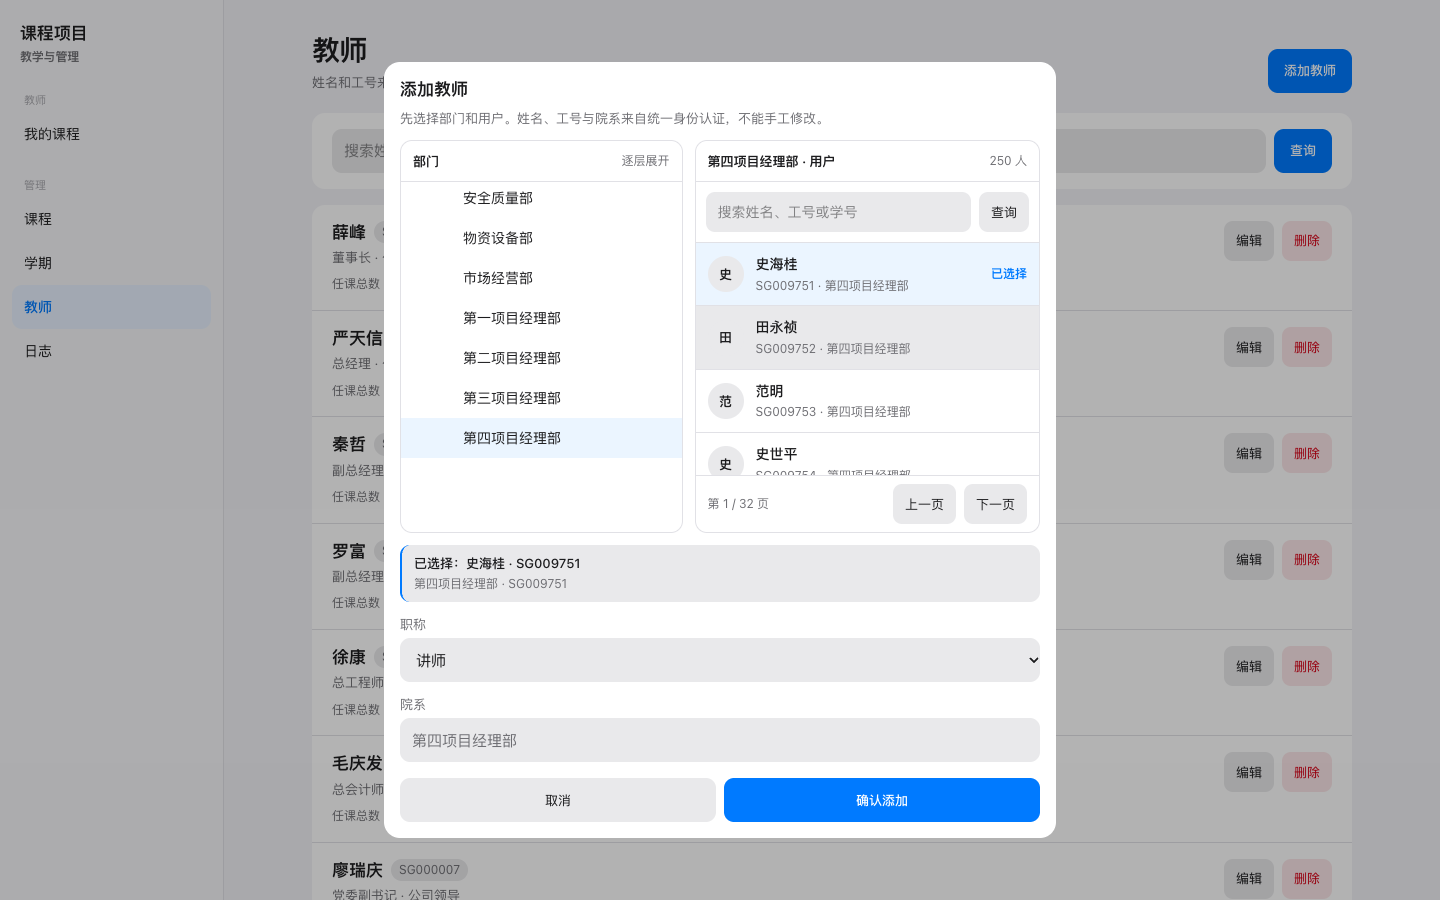
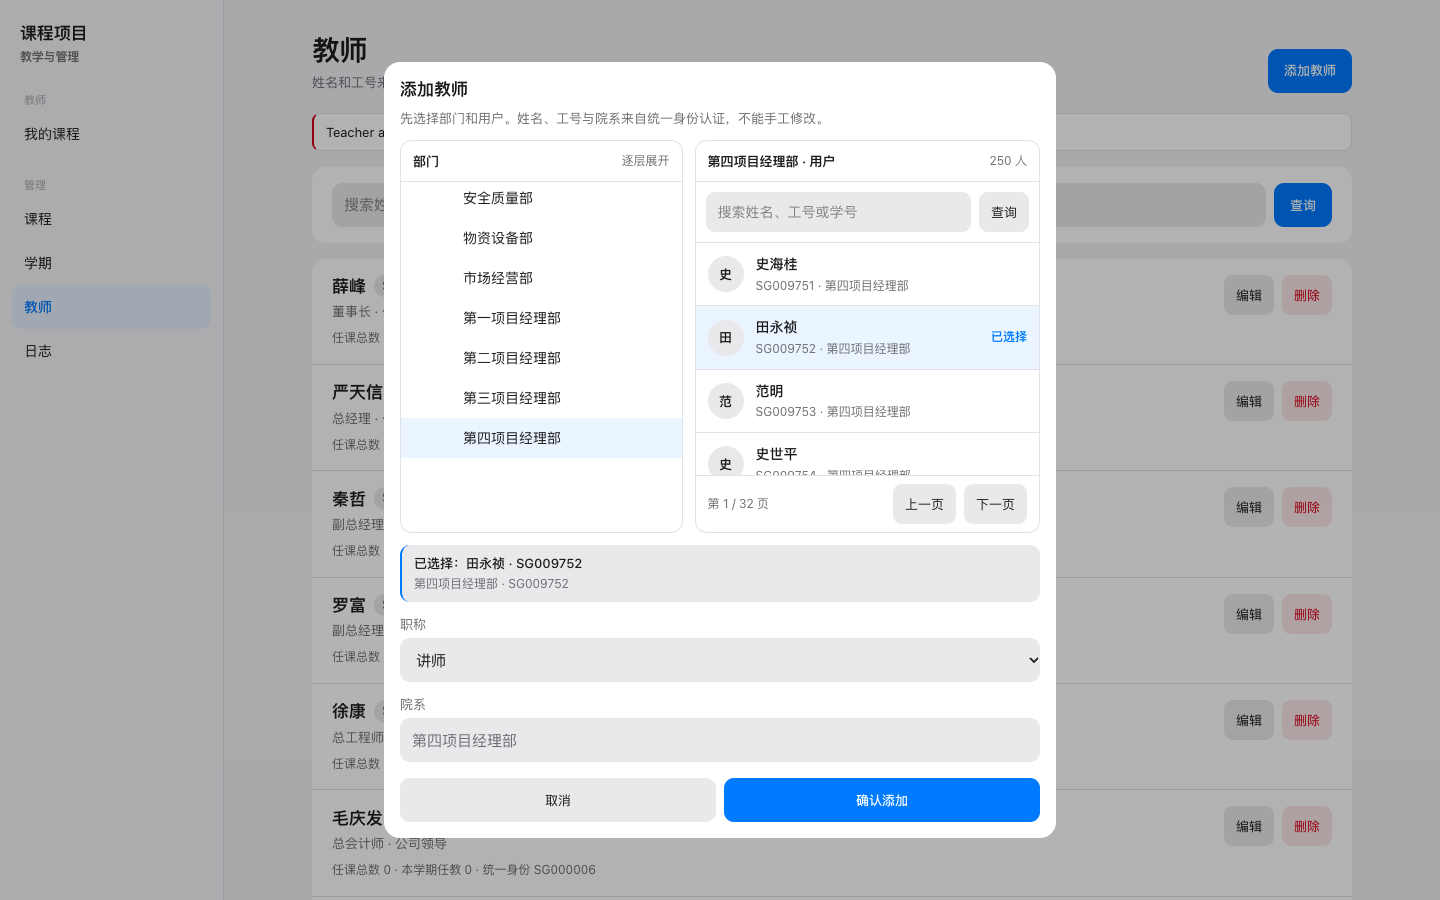
deploy: 权限系统滚动更新到 5c58665 并重新采集部署证据
- 更新后公网接口验收 42/42、浏览器走查 13 步通过，Swarm 状态、健康检查与菜单切换日志重新采集
- 打包脚本在 macOS 自带的 bash 3.2 下展开空的 MVN_ARGS 时不再报错

diff --git a/docs/second-review/evidence/deployment/README.md b/docs/second-review/evidence/deployment/README.md
@@ -1,5 +1,7 @@
 # Docker Swarm 部署证据（2026-11-21）
 
+当前部署的权限系统镜像为按课程代码规范整改后的 `5c58665`（滚动更新，取代 `6f650e1`）；以下状态、日志、验收输出和截图均在更新后重新采集。
+
 部署方式见 [05-deployment.adoc](../../05-deployment.adoc)。验收都从集群外部经公网地址执行：权限系统 http://120.46.213.158 ，课程系统 http://124.70.102.248 。
 
 | 文件 | 内容 |
@@ -8,7 +10,7 @@
 | `health.txt` | 4 个容器的健康检查状态 |
 | `register-course-app.txt` | 登记课程系统、同步一万名员工（约 20 秒）、启用演示工号的输出 |
 | `verify-public.txt` | 接口验收脚本，42/42 通过 |
-| `menu-switch-log.txt` | 在权限控制台依次进入“工作台”“有效权限”“审计日志”时，`docker service logs cdwy_rbac-backend` 中带 `[menu=...]` 标记的请求日志（时间为 UTC） |
+| `menu-switch-log.txt` | 浏览器走查在权限控制台依次进入“工作台”（`overview`）、“有效权限”（`effective`）、“审计日志”（`audit`）时，`docker service logs cdwy_rbac-backend` 中带 `[menu=...]` 标记的请求日志，含 Controller、Service 两层（时间为 UTC） |
 | `01-course-admin-menu.png` | 课程管理员从课程系统教师入口登录后的“管理”菜单 |
 | `06-picker-selected.png` | 添加教师：从权限系统的组织架构逐级选到人员 |
 | `09-menu-revoked.png` | 在权限系统撤销“课程督导”的“课程管理”后，课程管理员侧栏中的“课程”变灰 |
